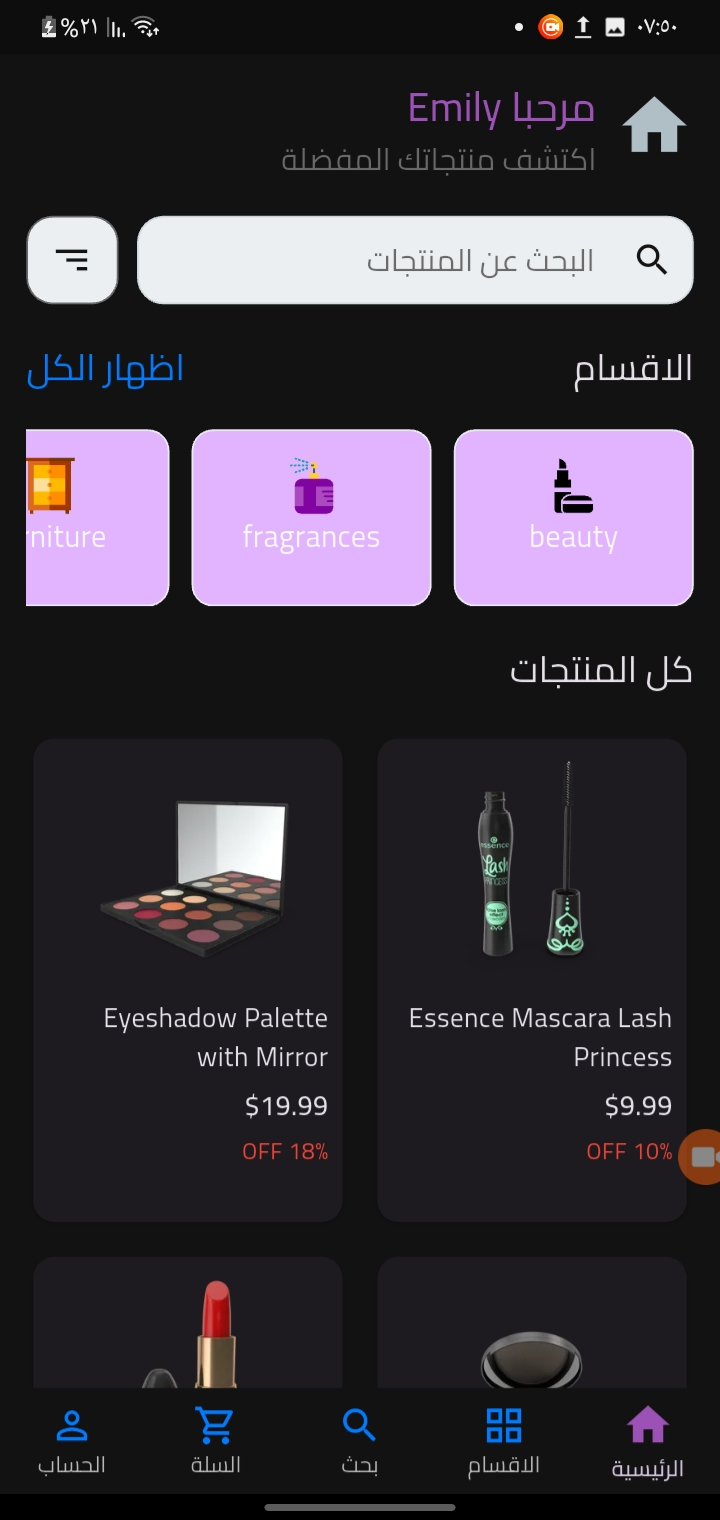
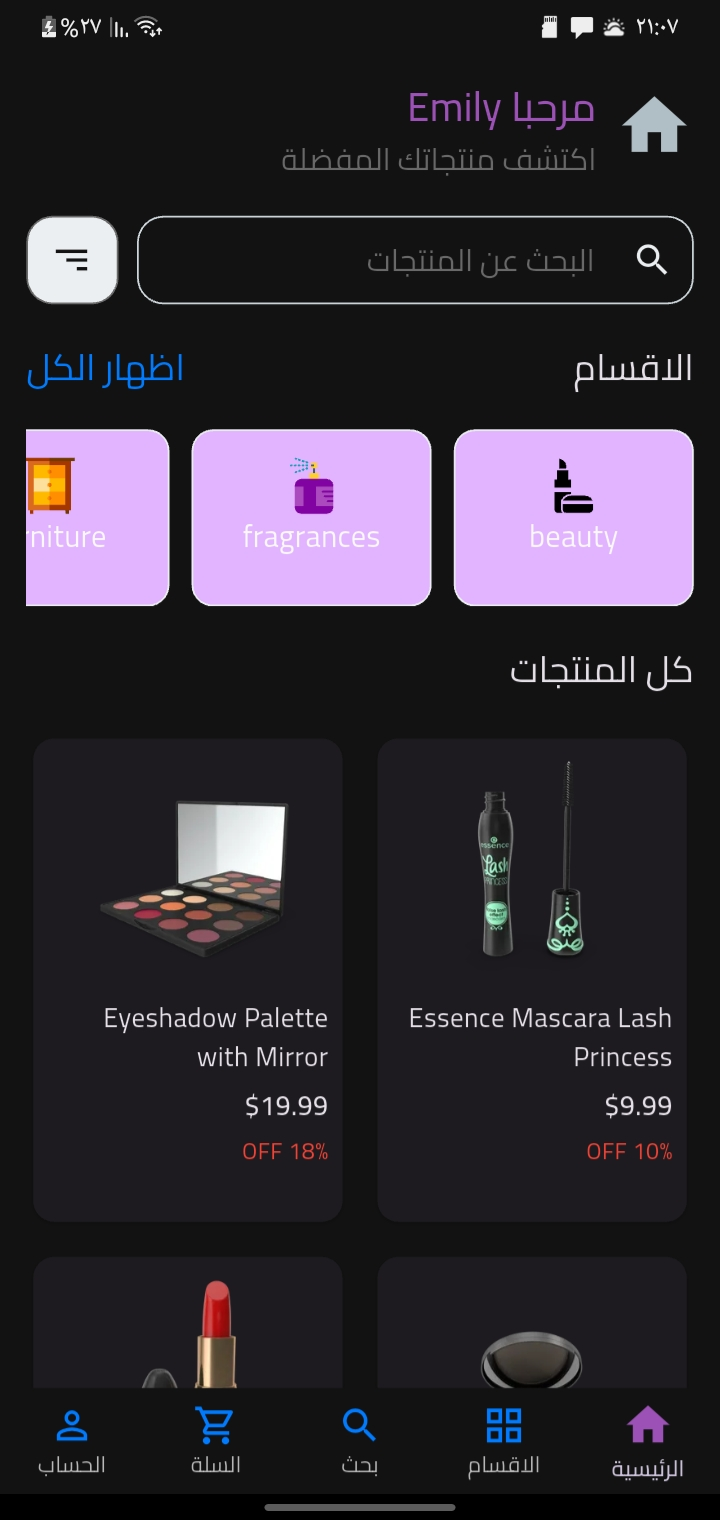
docs: update README and add dark theme screenshots

diff --git a/README.md b/README.md
@@ -2,6 +2,14 @@
 
 **Just a Shop** is a Flutter-based e-commerce mobile application designed to provide a simple and user-friendly shopping experience. It features modern UI design, product browsing, API integration, authentication, localization, state management, and maintainable code.
 
+## 🎥 App Demo
+
+### ☀ Light Theme
+
+
+### 🌙 Dark Theme
+
+
 ## ✨ Features
 
 ### 🎨 UI & User Experience
@@ -186,9 +194,9 @@ The following screenshots showcase the application in both themes and languages:
 | Preferences | ![Dark Preferences](screenshots/dark/prefernce-d.jpeg) | ![Light Preferences](screenshots/light/preference-l.jpeg) |
 | Onboarding | ![Dark Onboarding](screenshots/dark/onboarding-d.jpeg) | ![Light Onboarding](screenshots/light/onboarding-l.jpeg) |
 | Login | ![Dark Login](screenshots/dark/login-d.jpeg) | ![Light Login](screenshots/light/login-l.jpeg) |
-| Home | ![Dark Home](screenshots/dark/home-d.jpeg) | ![Light Home](screenshots\light\home-l.jpeg) |
+| Home | ![Dark Home](screenshots\dark\home-d.jpeg) | ![Light Home](screenshots\light\home-l.jpeg) |
 | Categories | ![Dark Categories](screenshots/dark/category-d.jpeg) | ![Light Categories](screenshots/light/category-l.jpeg) |
-| Search | ![Dark Search](screenshots/dark/search-d.jpeg) | ![Light Search](screenshots\light\search-l.jpeg) |
+| Search | ![Dark Search](screenshots\dark\search-d.jpeg) | ![Light Search](screenshots\light\search-l.jpeg) |
 | Product Details | ![Dark Product Details](screenshots/dark/productdetails-d.jpeg) | ![Light Product Details](screenshots/light/productdetails-l.jpeg) |
 | Cart | ![Dark Cart](screenshots/dark/cart-d.jpeg) | ![Light Cart](screenshots/light/cart-l.jpeg) |
 | Profile | ![Dark Profile](screenshots/dark/profile-d.jpeg) | ![Light Profile](screenshots/light/profile-l.jpeg) |
